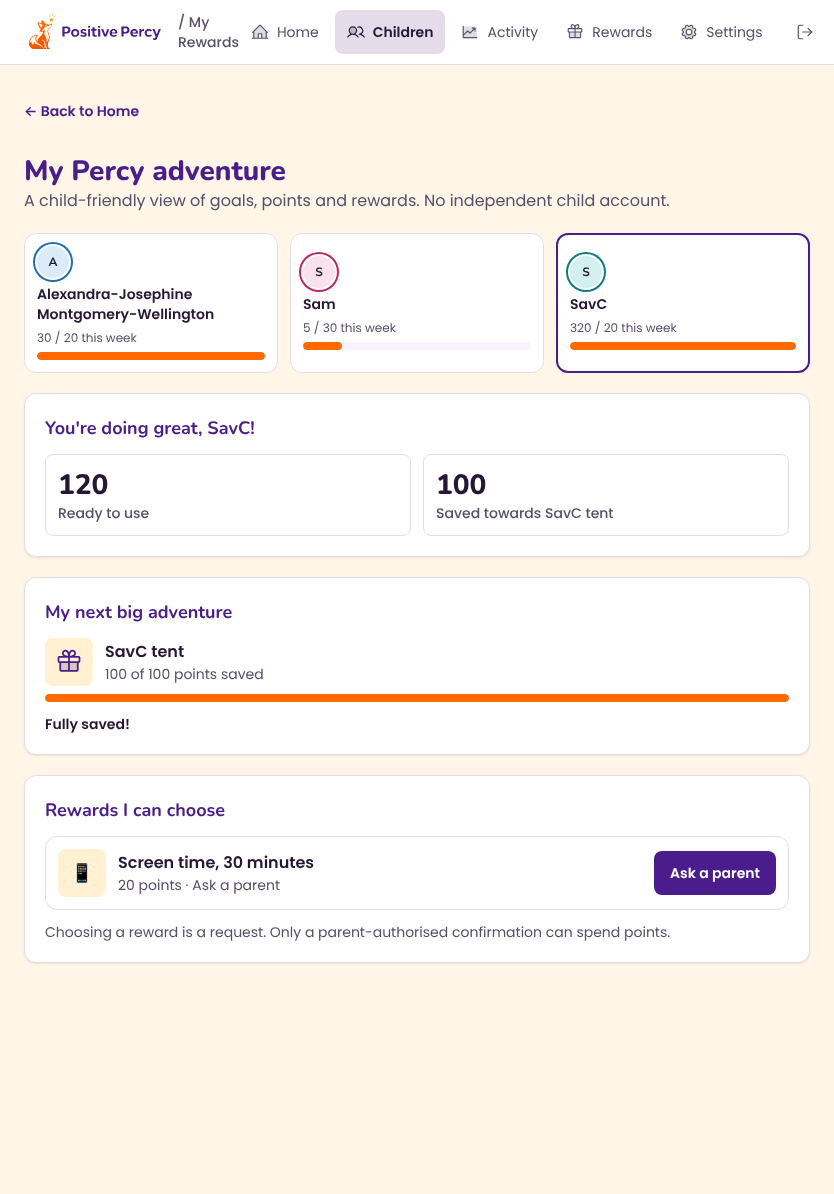
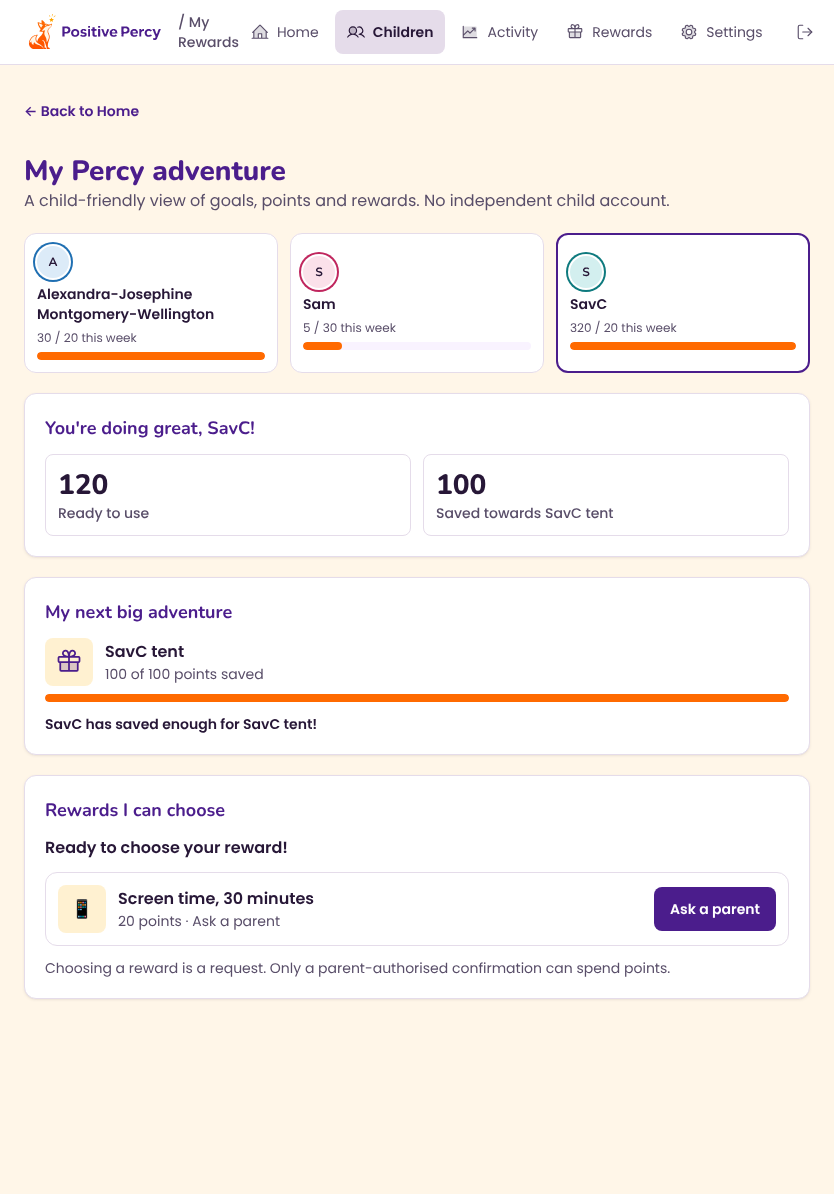
feat(d1): owner's final savings wording — their points, No longer assigned, Ready to choose your reward!; delete and Activity evidence; e2e cleanup order
Claude-Session: https://claude.ai/code/session_01S1yExcfoWX12tnn9YQ8nJw

Changed region(s): [[0.0312, 0.6817, 0.9664, 0.8367], [0.0624, 0.5888, 0.3741, 0.6198]]

diff --git a/src/pages/V1Savings.test.jsx b/src/pages/V1Savings.test.jsx
@@ -4,7 +4,7 @@
 // "Bigger rewards" section and form switch, Spend leaving goals out, and the
 // Activity rows. Every figure comes from the server (child.goals).
 import { describe, it, expect, vi, beforeEach } from 'vitest';
-import { render, screen, within, fireEvent, waitFor } from '@testing-library/react';
+import { render, screen, within, fireEvent, waitFor, cleanup } from '@testing-library/react';
 import { MemoryRouter } from 'react-router-dom';
 import { QueryClient, QueryClientProvider } from '@tanstack/react-query';
 
@@ -173,6 +173,17 @@ describe('Child View', () => {
     expect(childRewards(state.rewards, lara).map((r) => r.id)).toEqual(['r1']);
   });
 
+  it('"Ready to choose your reward!" only where the child can choose an ordinary reward', async () => {
+    mount(<ChildView />, '/childview?child=c1'); // 200 available, Movie night costs 25
+    expect(await screen.findByText('Ready to choose your reward!')).toBeTruthy();
+    cleanup();
+    // Nothing affordable (only goals and an expensive reward): not shown.
+    state.rewards = [R('g1', 'Bike', 300, { is_bigger_goal: true }), R('r9', 'Theme park', 5000)];
+    mount(<ChildView />, '/childview?child=c1');
+    expect(await screen.findByText('Theme park')).toBeTruthy();
+    expect(screen.queryByText('Ready to choose your reward!')).toBeNull();
+  });
+
   it('S5: a goal hidden from children shows on neither the tile nor the card', async () => {
     state.rewards = [R('g1', 'Bike', 300, { is_bigger_goal: true, visible_to_child: false }), R('r1', 'Movie night', 25)];
     expect(visibleGoals(state.rewards, lara)).toEqual([]);
@@ -242,10 +253,10 @@ describe('Home, Rewards, Spend and Activity', () => {
     expect(rowIconKind({ type: 'moved_back' })).toBe('saving');
     // §20.1: why saved points stopped counting, with child, goal, amount and cause.
     const ended = (note, points = 40) => rowText({ type: 'savings_ended', points, label: 'Bike', note, child_name: 'Lara', created_date: t }, 'UTC');
-    // Owner wording (21 Nov): "Lara's Bike savings are back in Lara's points" (a cancellation, not a success).
-    expect(ended('unmarked')).toMatchObject({ possessive: true, what: 'Bike', after: 'savings are back in Lara’s points' });
+    // Owner wording (handover 21 Nov): "Lara's Bike savings are back in their points." (a cancellation, not a success).
+    expect(ended('unmarked')).toMatchObject({ possessive: true, what: 'Bike', after: 'savings are back in their points.' });
     expect(ended('unmarked').sub).toContain('40 points returned · Bigger goal removed');
-    expect(ended('reassigned').sub).toContain('Goal no longer for Lara');
+    expect(ended('reassigned').sub).toContain('40 points returned · No longer assigned');
     expect(ended('deleted').sub).toContain('Reward deleted');
     expect(ended('unmarked', 1).sub).toContain('1 point returned');
     expect(JSON.stringify(ended('unmarked'))).not.toMatch(/earned|redeemed|hit|goal for Bike/);

diff --git a/e2e/v1-savings.spec.js b/e2e/v1-savings.spec.js
@@ -140,9 +140,32 @@ test('a parent saves towards a bigger goal, undoes, moves back and redeems', asy
     await expect(page.getByText(/0 points to go/)).toHaveCount(0);
     await page.getByRole('heading', { name: 'My next big adventure' }).scrollIntoViewIfNeeded();
     await checkScreen(page, 'child view fully saved', testInfo);
+
+    // Deleting a goal with savings: a per-child warning and confirmation (§21.2).
+    await page.goto('/rewards');
+    await page.waitForLoadState('networkidle');
+    await page.getByRole('button', { name: `Edit ${tent.title}` }).click();
+    await page.getByRole('dialog').getByRole('button', { name: 'Delete Reward' }).click();
+    const delConfirm = page.getByRole('alertdialog');
+    await expect(delConfirm.getByRole('status')).toContainText(`${name}: 100 saved points will become available again.`);
+    await checkScreen(page, 'delete goal with savings', testInfo);
+    await delConfirm.getByRole('button', { name: 'Delete' }).click();
+    await expect(page.getByText('Reward deleted')).toBeVisible();
+    tent = null;
+
+    // Activity: the cancellation line, distinct from success (owner wording).
+    await page.goto('/activity');
+    await page.waitForLoadState('networkidle');
+    const endedRow = page.locator('[data-row-key^="savings_ended-"]').filter({ hasText: `${name}’s` }).first();
+    await expect(endedRow).toContainText('savings are back in their points.');
+    await expect(endedRow).toContainText('100 points returned · Reward deleted');
+    await endedRow.scrollIntoViewIfNeeded();
+    await checkScreen(page, 'activity with savings rows', testInfo);
   } finally {
+    // The child first: its savings go with it, so the goals then delete
+    // without a savings confirmation (§21.2).
+    await page.request.fetch(`/api/children/${kid.id}`, { method: 'DELETE', headers });
     if (tent) await page.request.fetch(`/api/rewards/${tent.id}`, { method: 'DELETE', headers });
     if (bike) await page.request.fetch(`/api/rewards/${bike.id}`, { method: 'DELETE', headers });
-    await page.request.fetch(`/api/children/${kid.id}`, { method: 'DELETE', headers });
   }
 });

diff --git a/src/pages/ChildView.jsx b/src/pages/ChildView.jsx
@@ -203,6 +203,13 @@ export default function ChildView() {
             ) : rewards.length === 0 ? (
               <p className="text-muted-foreground">No rewards created yet.</p>
             ) : (
+              <>
+              {/* Owner wording (handover 21 Nov): only where the child can genuinely
+                  choose, i.e. an ordinary reward they can afford and have not asked
+                  for yet. Bigger goals are never choosable here (a parent redeems). */}
+              {rewards.some((r) => rewardState(r, child).kind === 'ask') && (
+                <p className="font-semibold text-foreground">Ready to choose your reward!</p>
+              )}
               <ul className="space-y-2">
                 {rewards.map((reward) => {
                   const state = rewardState(reward, child);
@@ -231,6 +238,7 @@ export default function ChildView() {
                   );
                 })}
               </ul>
+              </>
             )}
             <p className="text-sm text-muted-foreground">Choosing a reward is a request. Only a parent-authorised confirmation can spend points.</p>
           </CardContent>

diff --git a/src/pages/Activity.jsx b/src/pages/Activity.jsx
@@ -339,9 +339,11 @@ export function rowText(event, timeZone = undefined) {
   // Owner wording (21 Nov): a cancellation, never a success or an earning.
   // The child's name stands in for a pronoun (no pronouns are stored).
   if (event.type === 'savings_ended') {
+    // Owner wording (handover 21 Nov): "{Child}'s {Goal} savings are back in
+    // their points." · "{n} points returned · {reason}".
     const cause = event.note === 'unmarked' ? 'Bigger goal removed'
-      : event.note === 'deleted' ? 'Reward deleted' : `Goal no longer for ${event.child_name}`;
-    return { possessive: true, lead: '', what: event.label, after: `savings are back in ${event.child_name}’s points`,
+      : event.note === 'deleted' ? 'Reward deleted' : 'No longer assigned';
+    return { possessive: true, lead: '', what: event.label, after: 'savings are back in their points.',
       sub: `${event.points} ${pointsWord(event.points)} returned · ${cause} · ${time}` };
   }
   const lead = event.type === 'undo' ? 'undo:' : event.type === 'starting' ? 'started with'

diff --git a/docs/engineering/D1-SAVINGS-LEDGER-DESIGN.md b/docs/engineering/D1-SAVINGS-LEDGER-DESIGN.md
@@ -2,7 +2,7 @@
 
 | Field | Value |
 | --- | --- |
-| Version | 1.23 |
+| Version | 1.24 |
 | Issued | 2026-11-19 |
 | Owner | Percy V1 engineering. **Approval of the database change: the owner** (D1 needs approval before any migration) |
 | Status | **Approved in principle by the owner (2026-11-19, issue #56)**, subject to the data-preservation proof in §11. Step 1 is built: migration 016, its rollback, and the reconciliation proof. The savings endpoints and screens are not built yet |
@@ -12,6 +12,7 @@
 
 | Version | Date | Change |
 | --- | --- | --- |
+| 1.24 | 2026-11-21 | §21.8: the owner's final savings wording (handover 21 Nov) |
 | 1.23 | 2026-11-21 | §21.7: post-build code review of the snapshot confirmation |
 | 1.22 | 2026-11-21 | §21.6: owner wording: success and cancellation kept distinct |
 | 1.21 | 2026-11-21 | §21.5: design review adopted, built, tested, mutations |
@@ -1091,4 +1092,23 @@ A fresh-context reviewer found no Major issue. They could not end savings withou
 | Nit | A deleted child's name was blank in the list | "A child" |
 | Nit | A 409 without a snapshot would ask again forever | It is shown as an error instead |
 | Nit | The server lists are not cleared by a background refetch | Kept: safe, because the server re-checks and asks again |
+
+### 21.8 Final savings wording (owner handover, 21 November) (v1.24)
+
+The owner's handover sets the final strings. They supersede §21.6 where they differ. Achieving a target and ending an allocation are kept distinct, each matching the server's real event.
+
+| Situation | Final wording | Where |
+| --- | --- | --- |
+| A savings target fully funded | "Saved!" | Parent goal rows: Home, Children card and milestone |
+| A child can choose a reward | "Ready to choose your reward!" | Child View, above "Rewards I can choose", only when an ordinary reward is affordable and not yet asked for. Bigger goals are never choosable there; a parent redeems them |
+| A child has saved enough for a bigger goal | "{Child} has saved enough for {Goal}!" | Child View "My next big adventure"; Home under the goal. Not a redemption |
+| The parent redeems a bigger goal | "Redeem" | The savings dialog button and the confirmation. "Ready to redeem" stays beside a funded goal in the parent's dialog |
+| An allocation ended (`savings_ended`) | "{Child}'s {Goal} savings are back in their points." | Activity |
+| Its detail | "{n} points returned · {reason}"; the reason is "Bigger goal removed", "No longer assigned" or "Reward deleted" | Activity |
+
+- "their" replaces the repeated name (§21.6), so the pronoun question is settled.
+- Singular is handled ("1 point returned").
+- Tests: no cancellation line says earned, redeemed or a goal reached. "Ready to choose your reward!" appears only when there is a choosable reward.
+
+**Evidence.** `e2e/v1-savings.spec.js` adds two screenshots at all four sizes, `delete-goal-with-savings` and `activity-with-savings-rows`, and refreshes the rest.
 
